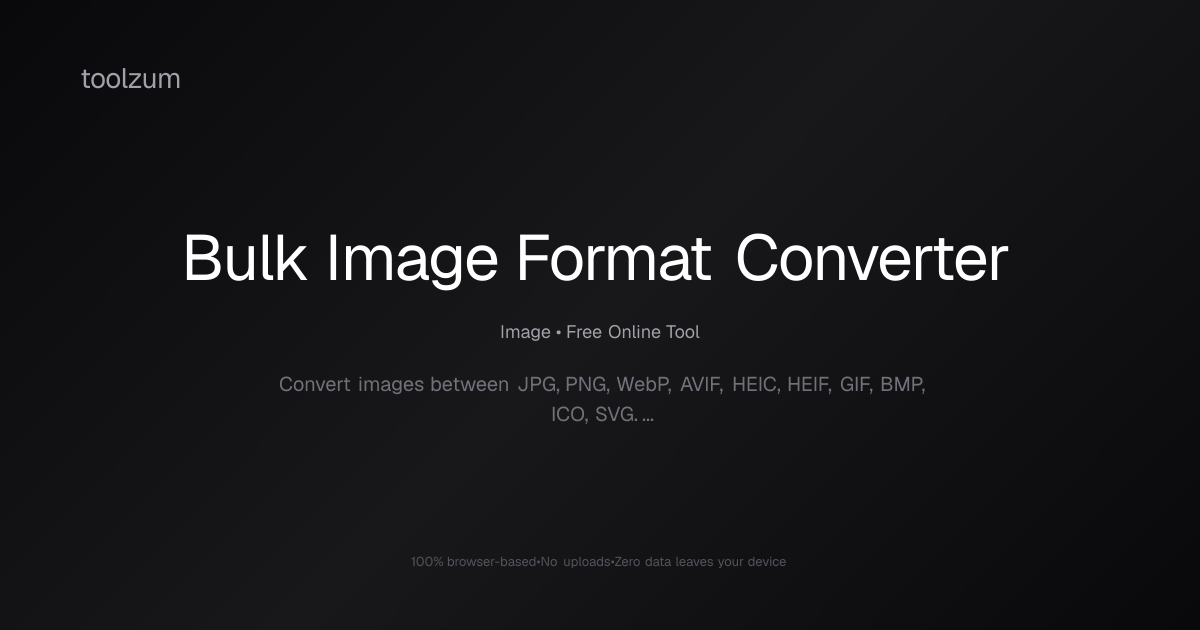
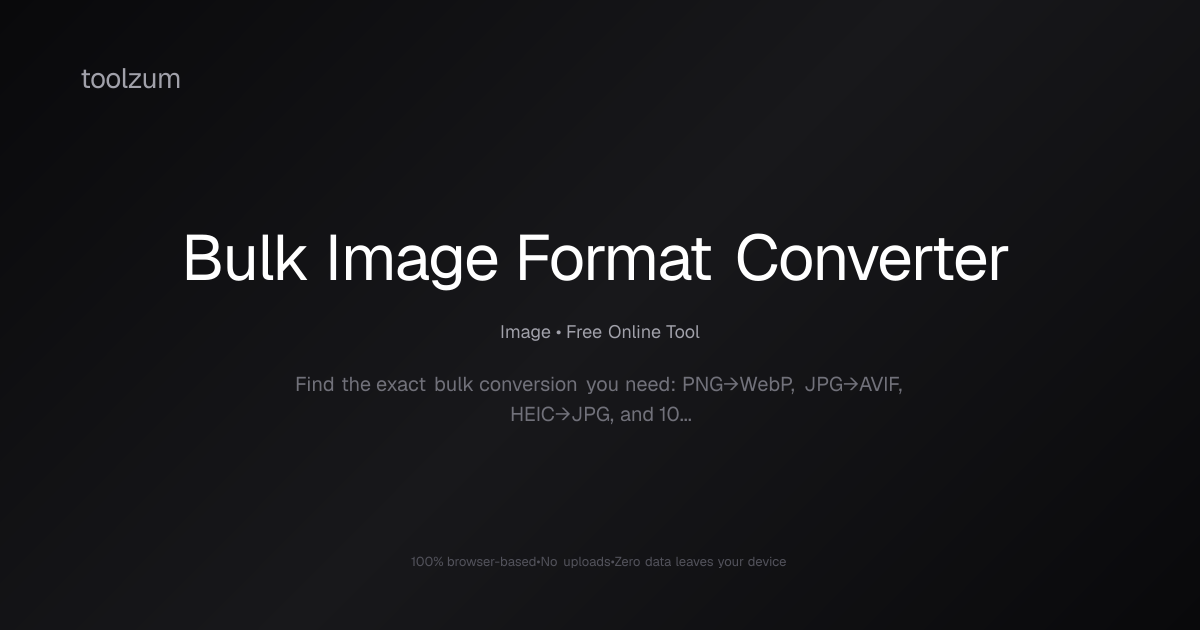
chore(og): refresh OG images, tool counts via getCachedToolCounts
opengraph-image now pulls the tool count from getCachedToolCounts()
instead of a hardcoded registry length. Updated bulk-image-converter,
image-bulk-converter, and image-format-converter OG artwork; removed
the obsolete yaml-syntax-validator OG image.

Changed region(s): [[0.2467, 0.573, 0.7708, 0.6635]]

diff --git a/src/app/[category]/[tool]/opengraph-image.tsx b/src/app/[category]/[tool]/opengraph-image.tsx
@@ -1,9 +1,11 @@
 import { getToolByCategoryAndSlug, toolsRegistry } from "@/registry/tools";
+import { getCachedToolCounts } from "@/registry/tools-helpers";
 
 export const contentType = 'image/svg+xml';
 export const size = { width: 1200, height: 630 };
 
-const toolCount = toolsRegistry.length;
+const { totalImplemented } = getCachedToolCounts();
+const toolCount = totalImplemented;
 const proCount = toolsRegistry.filter(t => t.isPro).length;
 
 export async function generateStaticParams() {
